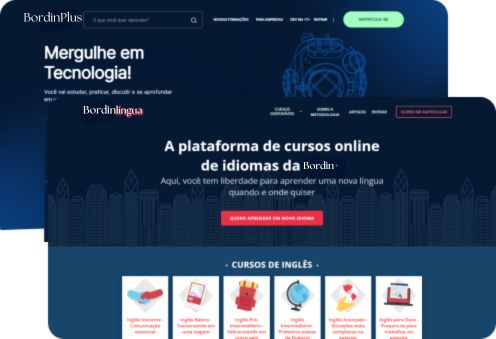
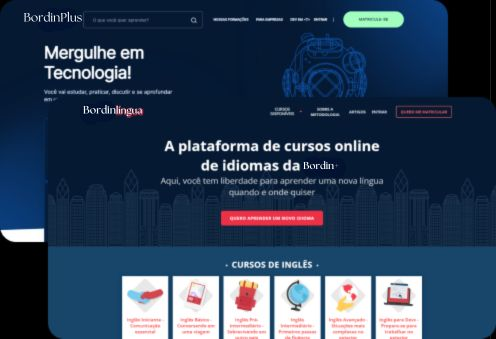
Add files via upload

diff --git a/index.html b/index.html
@@ -16,7 +16,7 @@
         <div class="container__caixa">
             <h1 class="container__titulo">Com o Combo+, você pode aproveitar o BordinFilms e a BordinEstudos por um preço
                 único.</h1>
-            <img src="Captura de tela_2024-08-06_07-33-55.png" alt="O combo+ é a junção do BordinFilms e o BordinEstudos" class="container__imagem">
+            <img src="" alt="O combo+ é a junção do BordinFilms e o BordinEstudos" class="container__imagem">
             <a href="www.alura.com.br" class="container__botao">Assine por 12x de R$ 100,00*</a>
             <a href="www.alura.com.br" class="container__botao botao_secundario">Assinar somente o BordinFilms+</a>
             <p class="containe__aviso">*O preço pode variar caso a assinatura seja feita em outros planos.</p>

diff --git a/styles.css b/styles.css
@@ -21,11 +21,11 @@ body {
 }
 
 .principal {
-
+background-image: url(Captura\ de\ tela_2024-08-06_07-33-55.png);
     background-repeat: no-repeat;
+    background-size: cover;
     align-items: center;
     text-align: center;
-    background-position: right;
 }
 
 .container {
